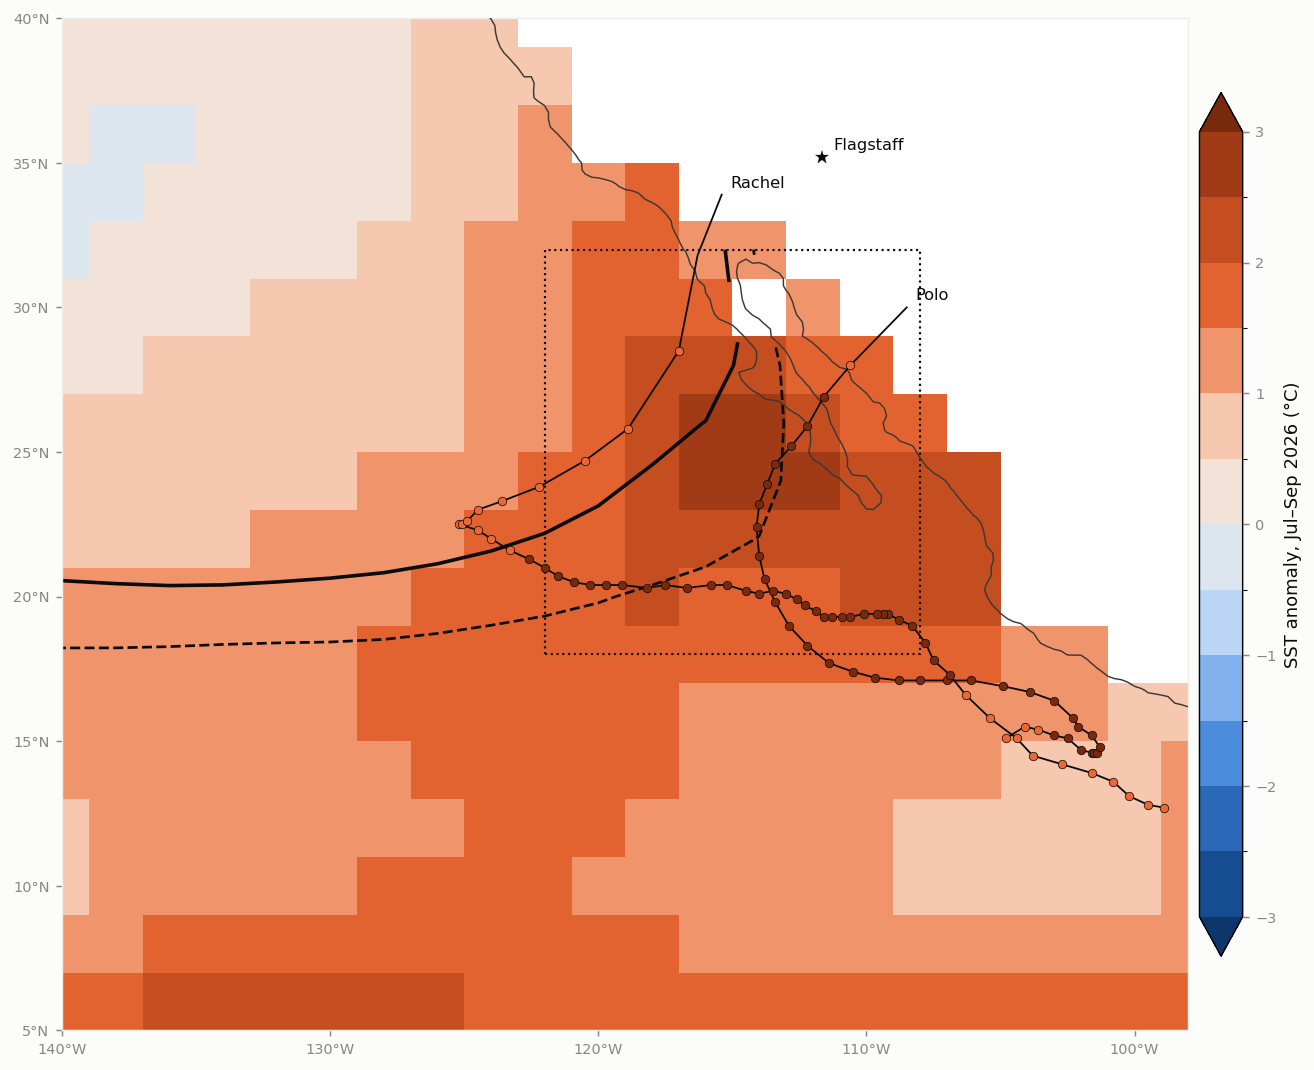
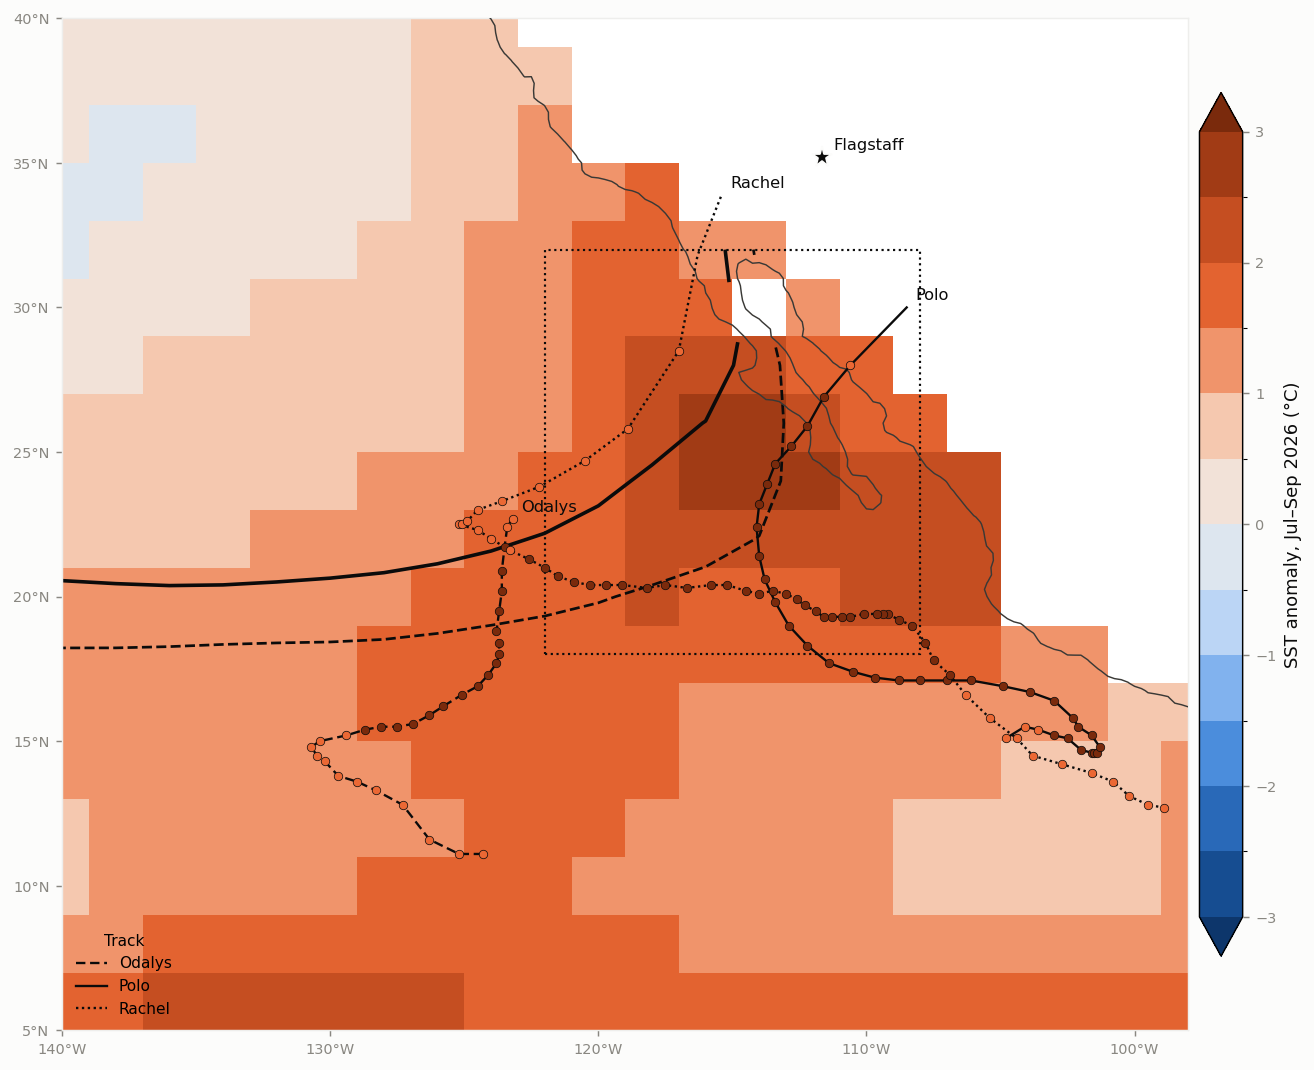
Attribute event moisture sources with NWS Flagstaff forecast discussions
- site/_afd_quotes.yml: verbatim excerpts from NWS Flagstaff Area Forecast
  Discussions for each event, with Iowa Environmental Mesonet archive links;
  every quote checked against the archived product text
- Event pages gain a "What the forecasters said" section
- Fall 2026: replace "coincided" with the forecasters' attribution (Odalys
  remnants then Polo in September; Rachel in October), shared quote source,
  Odalys track added with distinct track line styles
- Glossary: Area Forecast Discussion, precipitable water

diff --git a/flagweather/page.py b/flagweather/page.py
@@ -2,7 +2,7 @@
 import numpy as np
 import pandas as pd
 
-from .config import AR_IVT, TC_RADIUS_KM
+from .config import AR_IVT, ROOT, TC_RADIUS_KM
 from .event import JET_RADIUS_KM, LOW_RADIUS_KM, TROUGH_WEST
 
 MST = pd.Timedelta('7h')
@@ -181,3 +181,21 @@ def snotel_table(ev):
         'Max snow depth (in)': s.snwd_max.map('{:.0f}'.format),
     })
     return t.to_markdown()
+
+
+AFD_FILE = ROOT / 'site' / '_afd_quotes.yml'
+AFD_URL = 'https://mesonet.agron.iastate.edu/wx/afos/p.php?pil=AFDFGZ&e={utc}'
+
+
+def forecaster_notes(*slugs):
+    """Markdown list of NWS Flagstaff Area Forecast Discussion excerpts for the given event slugs."""
+    import yaml
+    q = {str(k): v for k, v in (yaml.safe_load(AFD_FILE.read_text(encoding='utf-8')) or {}).items()}  # keys parse as dates
+    items = sorted((it for s in slugs for it in q.get(s, [])), key=lambda it: it['utc'])
+    if not items:
+        return ''
+    lines = ['The National Weather Service office in Flagstaff discussed the moisture source in its Area Forecast '
+             'Discussions as the event unfolded. Excerpts, quoted verbatim (links to the Iowa Environmental '
+             'Mesonet archive):\n']
+    lines += [f'- **{it["local"]}** ([AFD]({AFD_URL.format(utc=it["utc"])})): "{it["text"]}"' for it in items]
+    return '\n'.join(lines)

diff --git a/flagweather/figures/baja.py b/flagweather/figures/baja.py
@@ -27,9 +27,10 @@ def sst_map(b, months, track_month):
     ax.contour(c.longitude, c.latitude, c, [26], colors=INK, linewidths=1.5, linestyles='--')
     ax.add_patch(Rectangle((BOX['lon'][0], BOX['lat'][0]), BOX['lon'][1] - BOX['lon'][0], BOX['lat'][1] - BOX['lat'][0],
                            fill=False, ec=INK, lw=1.2, ls=':'))
+    styles = {'Odalys': (0, (4, 2)), 'Polo': '-', 'Rachel': (0, (1, 1.5))}
     for name, g in b.tracks().items():
         x, y = g.lon % 360, g.lat
-        ax.plot(x, y, color=INK, lw=1, zorder=4)
+        ax.plot(x, y, color=INK, lw=1.3, ls=styles.get(name, '-'), zorder=4, label=name)
         for t in ('TD', 'TS', 'HU'):
             m = g.type == t
             ax.scatter(x[m], y[m], s=22, color=TYPE_COLOR[t], edgecolor=INK, lw=0.4, zorder=5)
@@ -41,6 +42,7 @@ def sst_map(b, months, track_month):
         ax.contour(lsm.longitude % 360, lsm.latitude, lsm, [0.5], colors='#3a3936', linewidths=0.8, zorder=3)
     except Exception:
         pass
+    ax.legend(title='Track', frameon=False, fontsize=8.5, title_fontsize=8.5, loc='lower left')
     ax.plot(360 - 111.65, 35.2, marker='*', color=INK, ms=12, mec=SURF, zorder=6)
     ax.annotate('Flagstaff', (360 - 111.65, 35.2), xytext=(6, 4), textcoords='offset points', fontsize=9, color=INK)
     ax.set_xlim(*DOM['lon'])

diff --git a/scripts/make_event_page.py b/scripts/make_event_page.py
@@ -96,6 +96,14 @@ if ok and ev.final:
 
 ```{{python}}
 #| output: asis
+notes = page.forecaster_notes('{slug}')
+if notes:
+    print('## What the forecasters said\\n')
+    print(notes)
+```
+
+```{{python}}
+#| output: asis
 if ok:
     print('## Climate context\\n')
     print(page.climate(ev))
